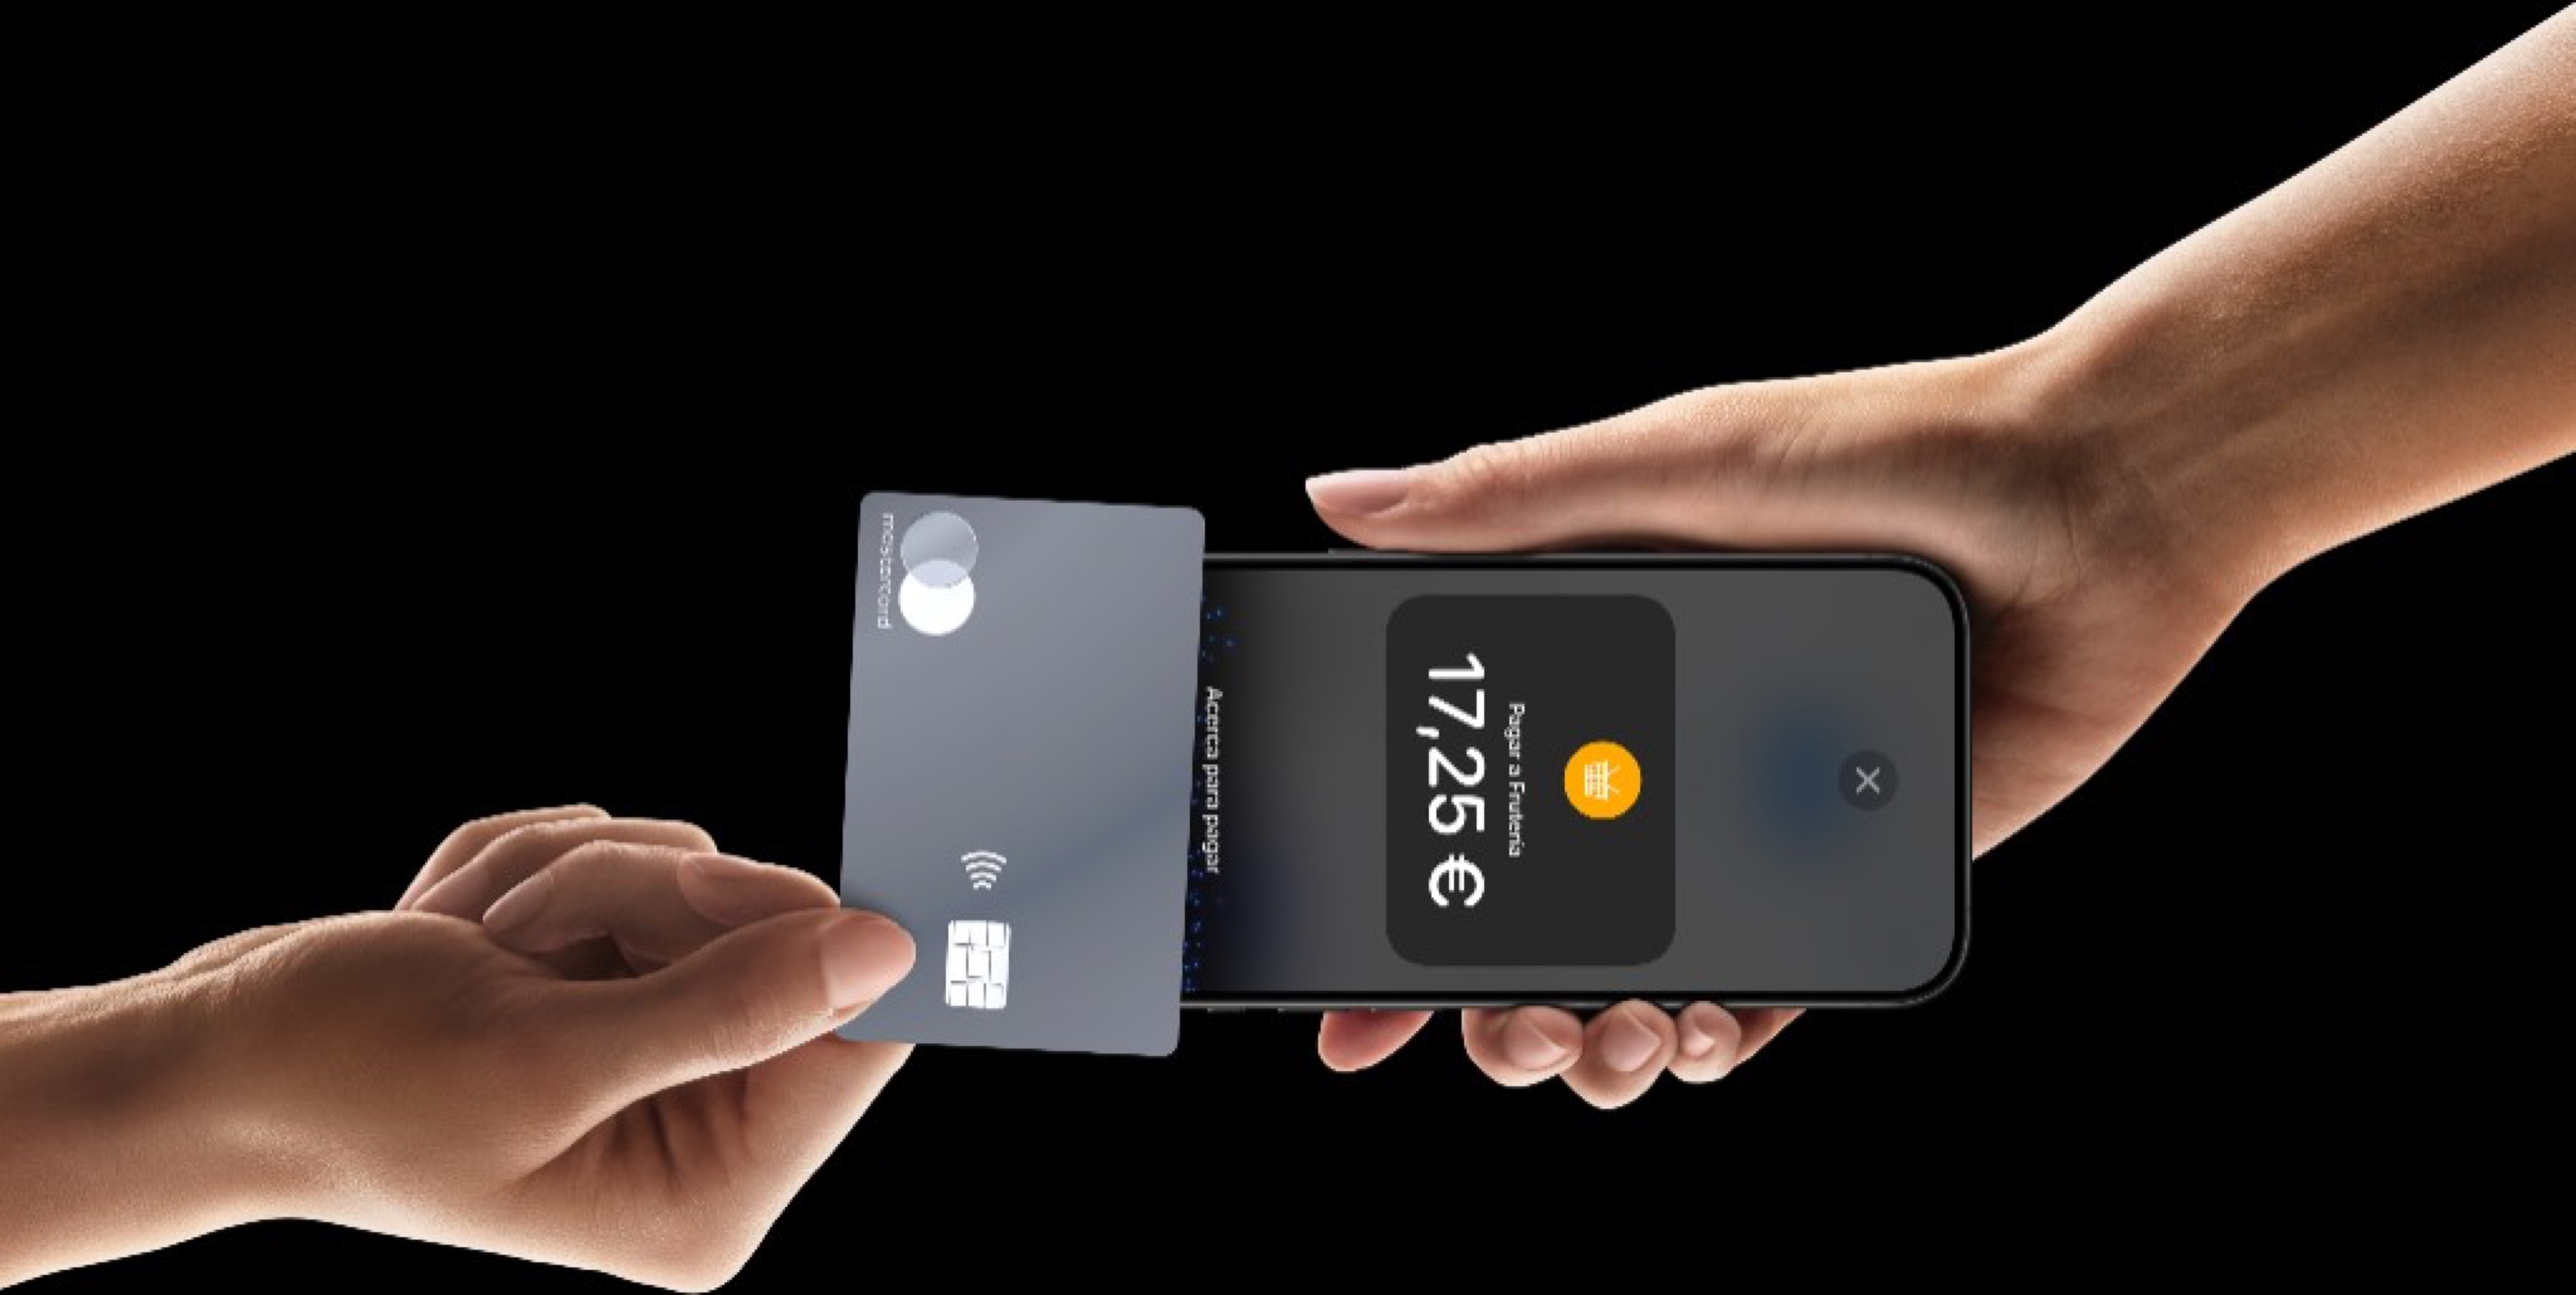
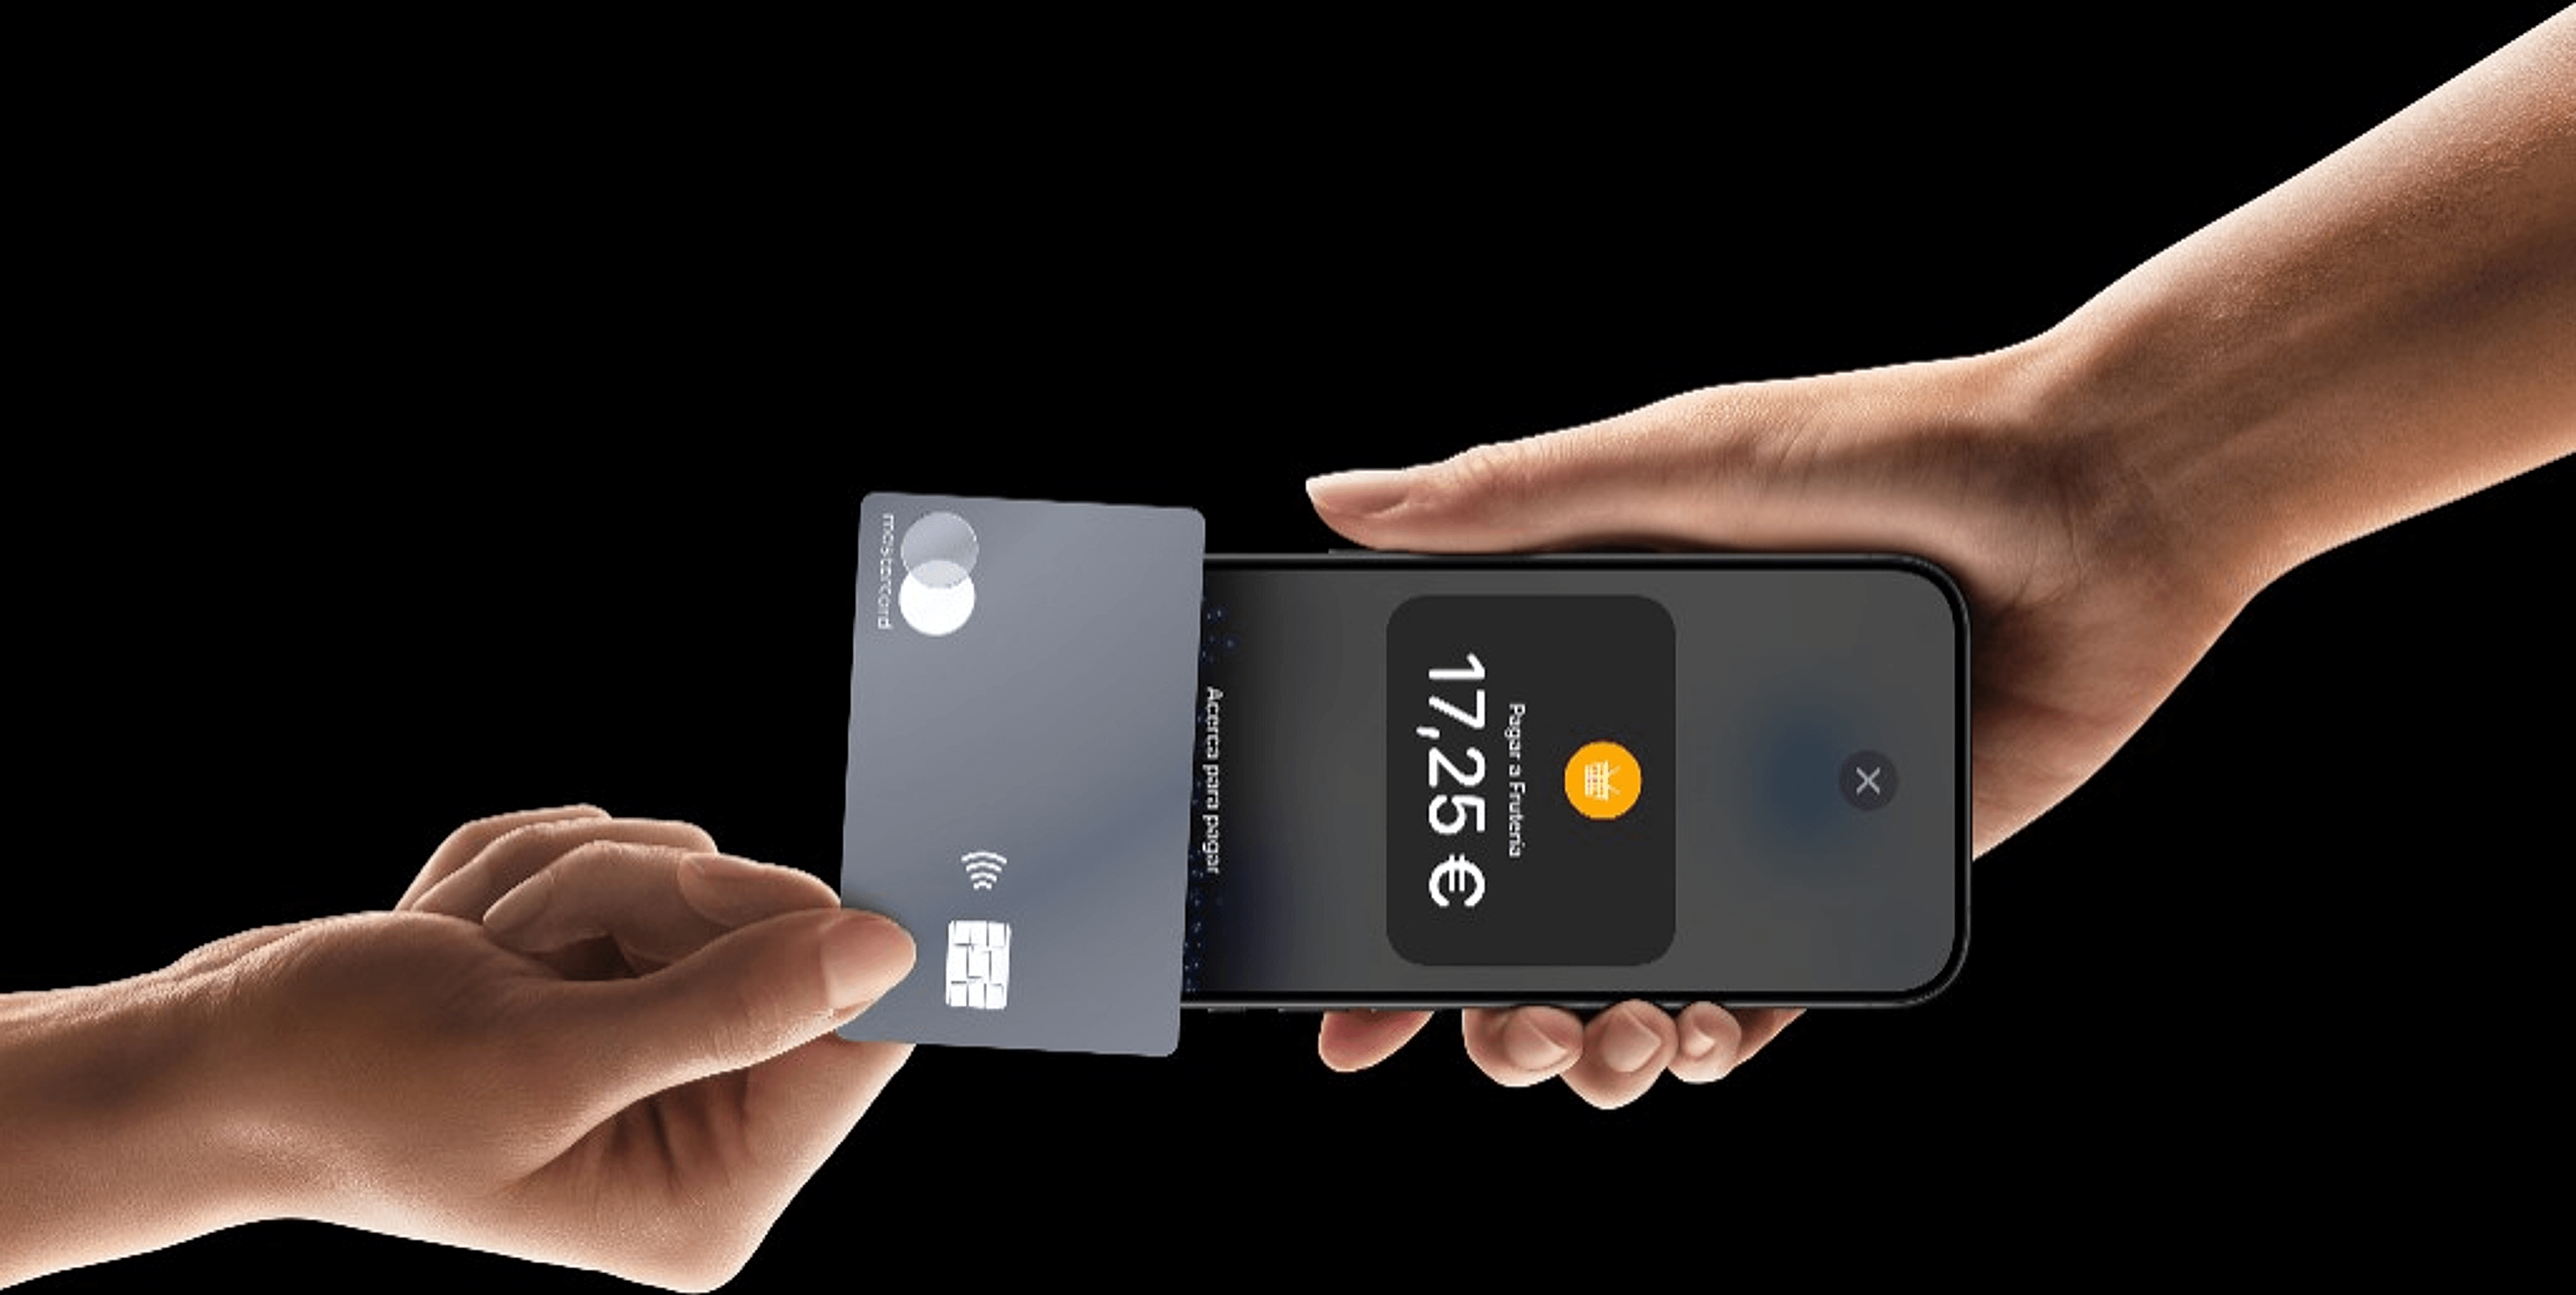
fix: imagen tap-to-pay reprocessada con sharp Lanczos3 + unsharp mask, sin compresión
Made-with: Cursor

Changed region(s): [[0.5625, 0.5903, 0.625, 0.6524], [0.25, 0.9942, 0.2812, 1.0]]

diff --git a/src/app/(marketing)/home/page.tsx b/src/app/(marketing)/home/page.tsx
@@ -479,11 +479,15 @@ function TapToPaySection() {
             alt="Tap to Pay con iPhone — PayForce"
             width={4096}
             height={2060}
-            quality={100}
             priority
             unoptimized
             className="mx-auto w-full max-w-5xl object-contain select-none"
-            style={{ marginBottom: "-2px", imageRendering: "auto" }}
+            style={{
+              marginBottom: "-2px",
+              imageRendering:         "high-quality",
+              WebkitFontSmoothing:    "antialiased",
+              filter: "contrast(1.06) brightness(1.02) saturate(1.08)",
+            }}
           />
           {/* Fade bottom para transición suave a la sección siguiente */}
           <div className="absolute bottom-0 left-0 right-0 h-32 pointer-events-none"
